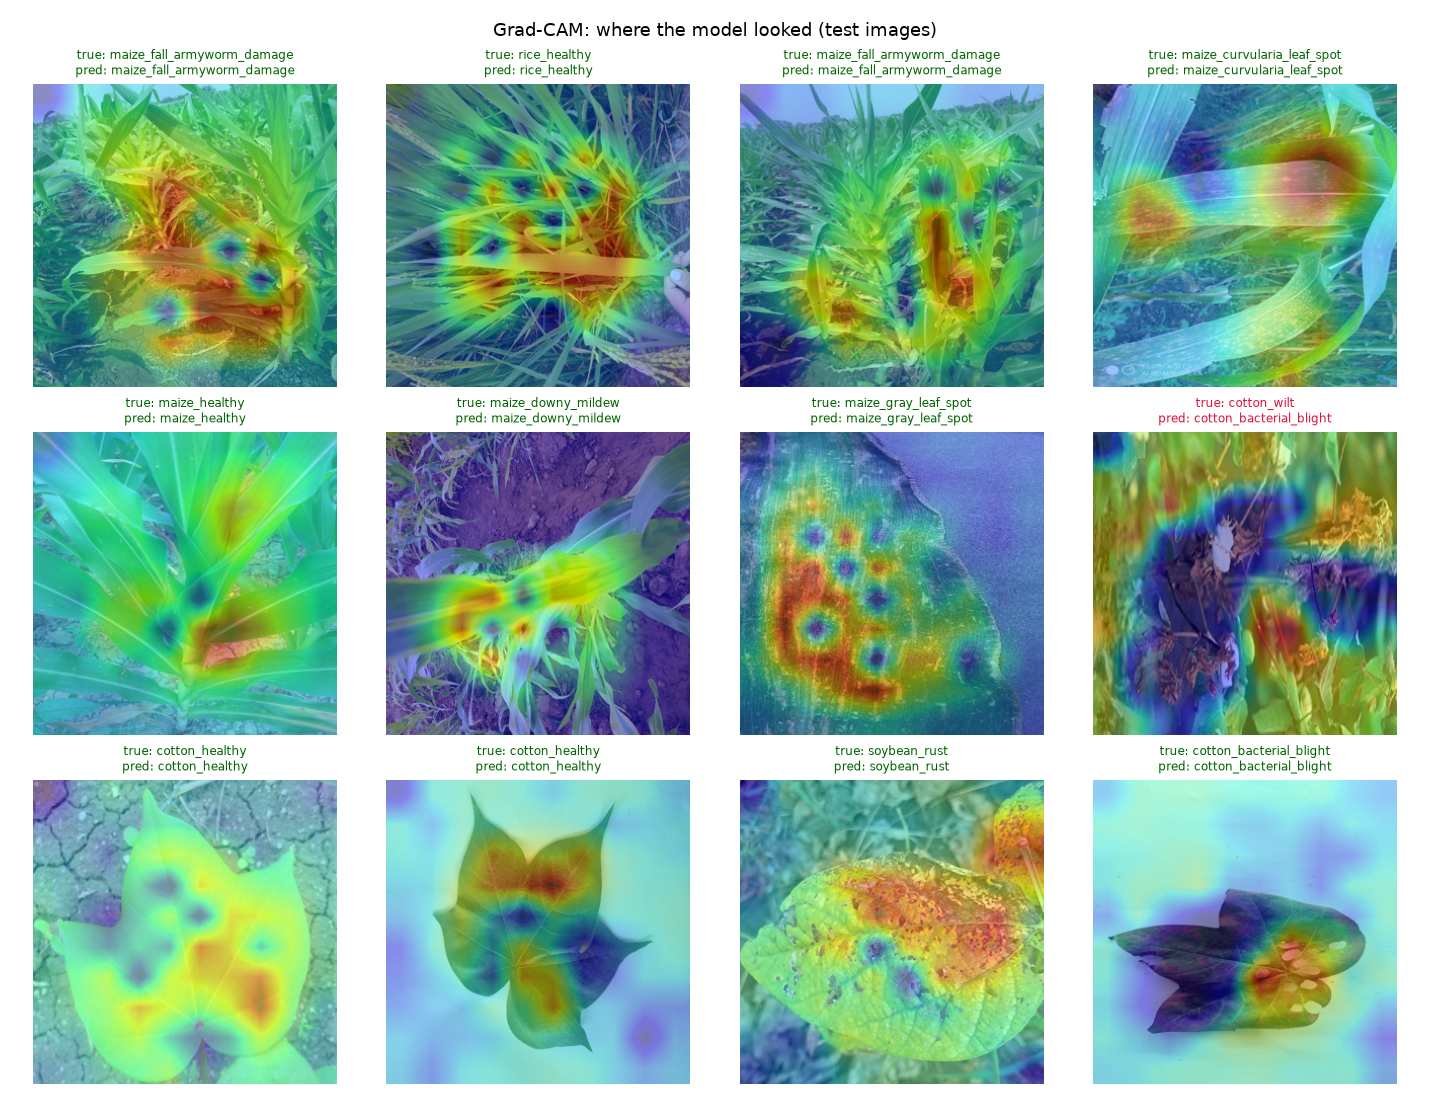
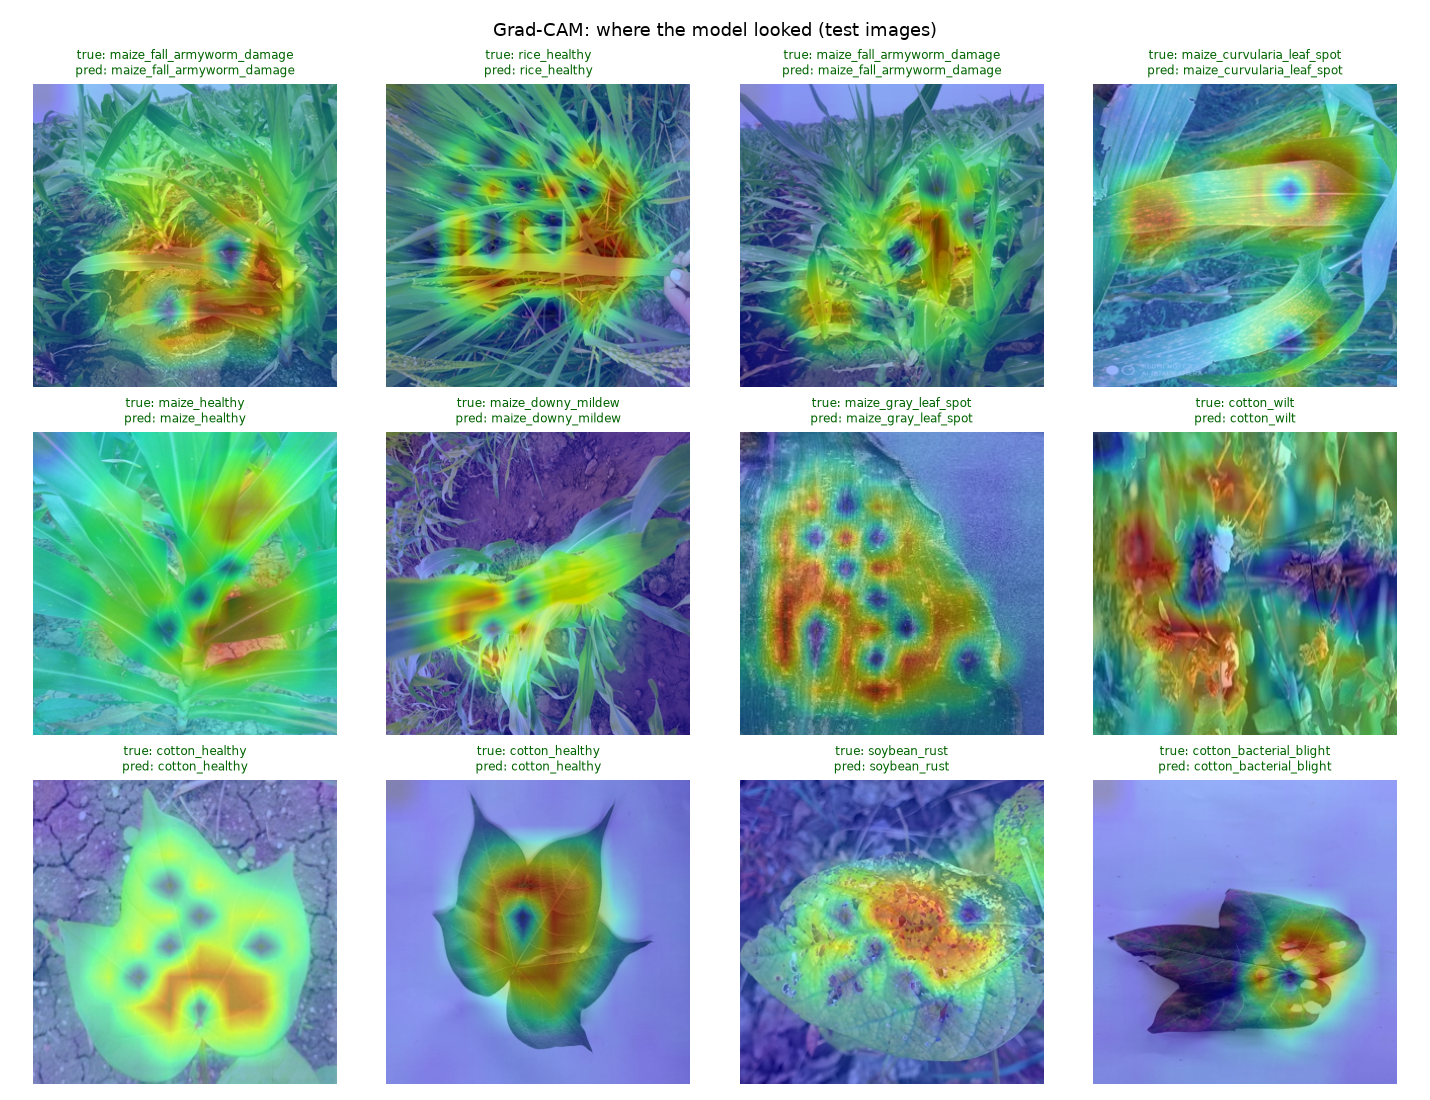
ml: report for the two-stage candidate
Frozen-backbone head, then the backbone at 2e-5. ICAR accuracy-when-advised
0.9823 against the deployed model's 0.9652; rice, maize and cotton pass every
check. Not deployed: soybean rust, septoria, caterpillar damage and frogeye
recall are 0.569-0.692 against a 0.70 bar.

diff --git a/ml/reports/CANDIDATE_REPORT.md b/ml/reports/CANDIDATE_REPORT.md
@@ -1,6 +1,6 @@
 # AnnRakshak vision model — report (CANDIDATE — not deployed)
 
-Generated 2026-09-16 09:03 UTC by `ml/train.py --with-extra`. Version `icar+extra+more-efficientnet_v2_s-warmstart-20260916`.
+Generated 2026-09-17 05:37 UTC by `ml/train.py --with-extra`. Version `icar+extra+more-efficientnet_v2_s-warmstart-20260917`.
 
 **Data:** ICAR rice & maize images (835 unique) + Crop Diseases compilation (rice blast, brown spot, healthy; PlantVillage maize rust, northern leaf blight, healthy) + CCMT field maize (fall armyworm, healthy); lab-backdrop photos trained with background randomisation. 35 training classes → 33 targets (rice leaf and neck blast, fall armyworm larvae and damage, are separate classes merged into one advisory target). The ICAR train/validation/test split is the one the previous model used, so the ICAR test numbers below compare like for like. Extra sources are split per class (70/15/15, seed 42) and capped (new classes ≤300 train images, classes ICAR already has ≤150); training samples classes evenly and, inside a class, gives the ICAR field photos 75% of the weight. **Warm start:** training continues from the deployed model — its backbone and its head rows for every class it already knew — at a third of the usual learning rate, so only the new classes are learnt from scratch (continual learning).
 
@@ -11,12 +11,12 @@ Generated 2026-09-16 09:03 UTC by `ml/train.py --with-extra`. Version `icar+extr
 | | Top-1 accuracy | Macro-F1 | Advised | Accuracy when advised | Calibration error |
 |---|---|---|---|---|---|
 | previous (icar+extra-efficientnet_v2_s-warmstart-20260915) | 0.889 | 0.766 | 91.3% | 0.9652 | 0.0565 |
-| **this model** | 0.889 | 0.741 | 87.3% | 0.9636 | 0.0372 |
+| **this model** | 0.897 | 0.712 | 89.7% | 0.9823 | 0.0398 |
 
 ## 2. Extra-source test images
 
-- Original backgrounds: accuracy **0.873** (2023 images); gate advises 81.4%, right 0.9387 of the time.
-- Plain-backdrop images only: 0.888 on the original backdrop → **0.858** with the backdrop swapped for an unseen field photo (gate right 0.9343 of the time when it advises).
+- Original backgrounds: accuracy **0.885** (2023 images); gate advises 86.2%, right 0.9461 of the time.
+- Plain-backdrop images only: 0.899 on the original backdrop → **0.889** with the backdrop swapped for an unseen field photo (gate right 0.9379 of the time when it advises).
 
 Per-class recall, background swapped:
 
@@ -24,48 +24,48 @@ Per-class recall, background swapped:
 |---|---|---|
 | cotton_alternaria_leaf_spot | 20 | 1.00 |
 | cotton_aphid | 3 | 0.67 |
-| cotton_bacterial_blight | 45 | 0.80 |
-| cotton_healthy | 35 | 0.97 |
+| cotton_bacterial_blight | 45 | 0.87 |
+| cotton_healthy | 35 | 1.00 |
 | cotton_leaf_curl | 7 | 1.00 |
-| cotton_wilt | 89 | 0.82 |
-| maize_common_rust | 115 | 0.97 |
+| cotton_wilt | 89 | 0.90 |
+| maize_common_rust | 115 | 0.98 |
 | maize_ear_rot | 5 | 1.00 |
 | maize_fall_armyworm | 3 | 0.67 |
-| maize_gray_leaf_spot | 16 | 0.88 |
-| maize_healthy | 49 | 0.96 |
+| maize_gray_leaf_spot | 16 | 0.94 |
+| maize_healthy | 49 | 1.00 |
 | maize_maydis_leaf_blight | 5 | 0.60 |
-| maize_turcicum_leaf_blight | 11 | 0.73 |
-| rice_bacterial_leaf_blight | 7 | 0.43 |
+| maize_turcicum_leaf_blight | 11 | 0.55 |
+| rice_bacterial_leaf_blight | 7 | 0.57 |
 | rice_brown_spot | 73 | 0.59 |
-| rice_healthy | 60 | 0.87 |
-| rice_leaf_blast | 89 | 0.84 |
+| rice_healthy | 60 | 0.97 |
+| rice_leaf_blast | 89 | 0.87 |
 | rice_neck_blast | 67 | 1.00 |
 | rice_tungro | 6 | 1.00 |
-| soybean_caterpillar_damage | 2 | 1.00 |
+| soybean_caterpillar_damage | 2 | 0.50 |
 | soybean_healthy | 3 | 1.00 |
 | soybean_rust | 5 | 0.40 |
-| soybean_septoria_brown_spot | 6 | 0.67 |
-| soybean_yellow_mosaic | 2 | 0.00 |
+| soybean_septoria_brown_spot | 6 | 0.83 |
+| soybean_yellow_mosaic | 2 | 0.50 |
 
 ## 3. Deployment checks
 
-- ✅ ICAR test top-1 within 2 points of deployed: 0.889 vs 0.889
-- ✅ ICAR accuracy-when-advised within 1 point of deployed: 0.9636 vs 0.9652
+- ✅ ICAR test top-1 within 2 points of deployed: 0.897 vs 0.889
+- ✅ ICAR accuracy-when-advised within 1 point of deployed: 0.9823 vs 0.9652
 - ✅ cotton_alternaria_leaf_spot recall after background swap >= 0.70: 1.000
 - ✅ cotton_aphid recall on held-out photos >= 0.70: 1.000
-- ✅ cotton_bacterial_blight recall after background swap >= 0.70: 0.800
-- ✅ cotton_healthy recall after background swap >= 0.70: 0.971
+- ✅ cotton_bacterial_blight recall after background swap >= 0.70: 0.867
+- ✅ cotton_healthy recall after background swap >= 0.70: 1.000
 - ✅ cotton_leaf_curl recall on held-out photos >= 0.70: 1.000
-- ✅ cotton_wilt recall after background swap >= 0.70: 0.820
+- ✅ cotton_wilt recall after background swap >= 0.70: 0.899
 - ✅ maize_ear_rot recall on held-out photos >= 0.70: 1.000
-- ✅ maize_gray_leaf_spot recall after background swap >= 0.70: 0.875
+- ✅ maize_gray_leaf_spot recall after background swap >= 0.70: 0.938
 - ✅ rice_tungro recall on held-out photos >= 0.70: 1.000
-- ❌ soybean_caterpillar_damage recall on held-out photos >= 0.70: 0.693
-- ✅ soybean_frogeye_leaf_spot recall on held-out photos >= 0.70: 0.731
+- ❌ soybean_caterpillar_damage recall on held-out photos >= 0.70: 0.682
+- ❌ soybean_frogeye_leaf_spot recall on held-out photos >= 0.70: 0.692
 - ✅ soybean_healthy recall on held-out photos >= 0.70: 0.968
-- ❌ soybean_rust recall on held-out photos >= 0.70: 0.600
-- ❌ soybean_septoria_brown_spot recall on held-out photos >= 0.70: 0.575
-- ✅ soybean_yellow_mosaic recall on held-out photos >= 0.70: 0.805
+- ❌ soybean_rust recall on held-out photos >= 0.70: 0.569
+- ❌ soybean_septoria_brown_spot recall on held-out photos >= 0.70: 0.681
+- ✅ soybean_yellow_mosaic recall on held-out photos >= 0.70: 0.789
 
 **Not deployed — the previous model stays live.**
 
